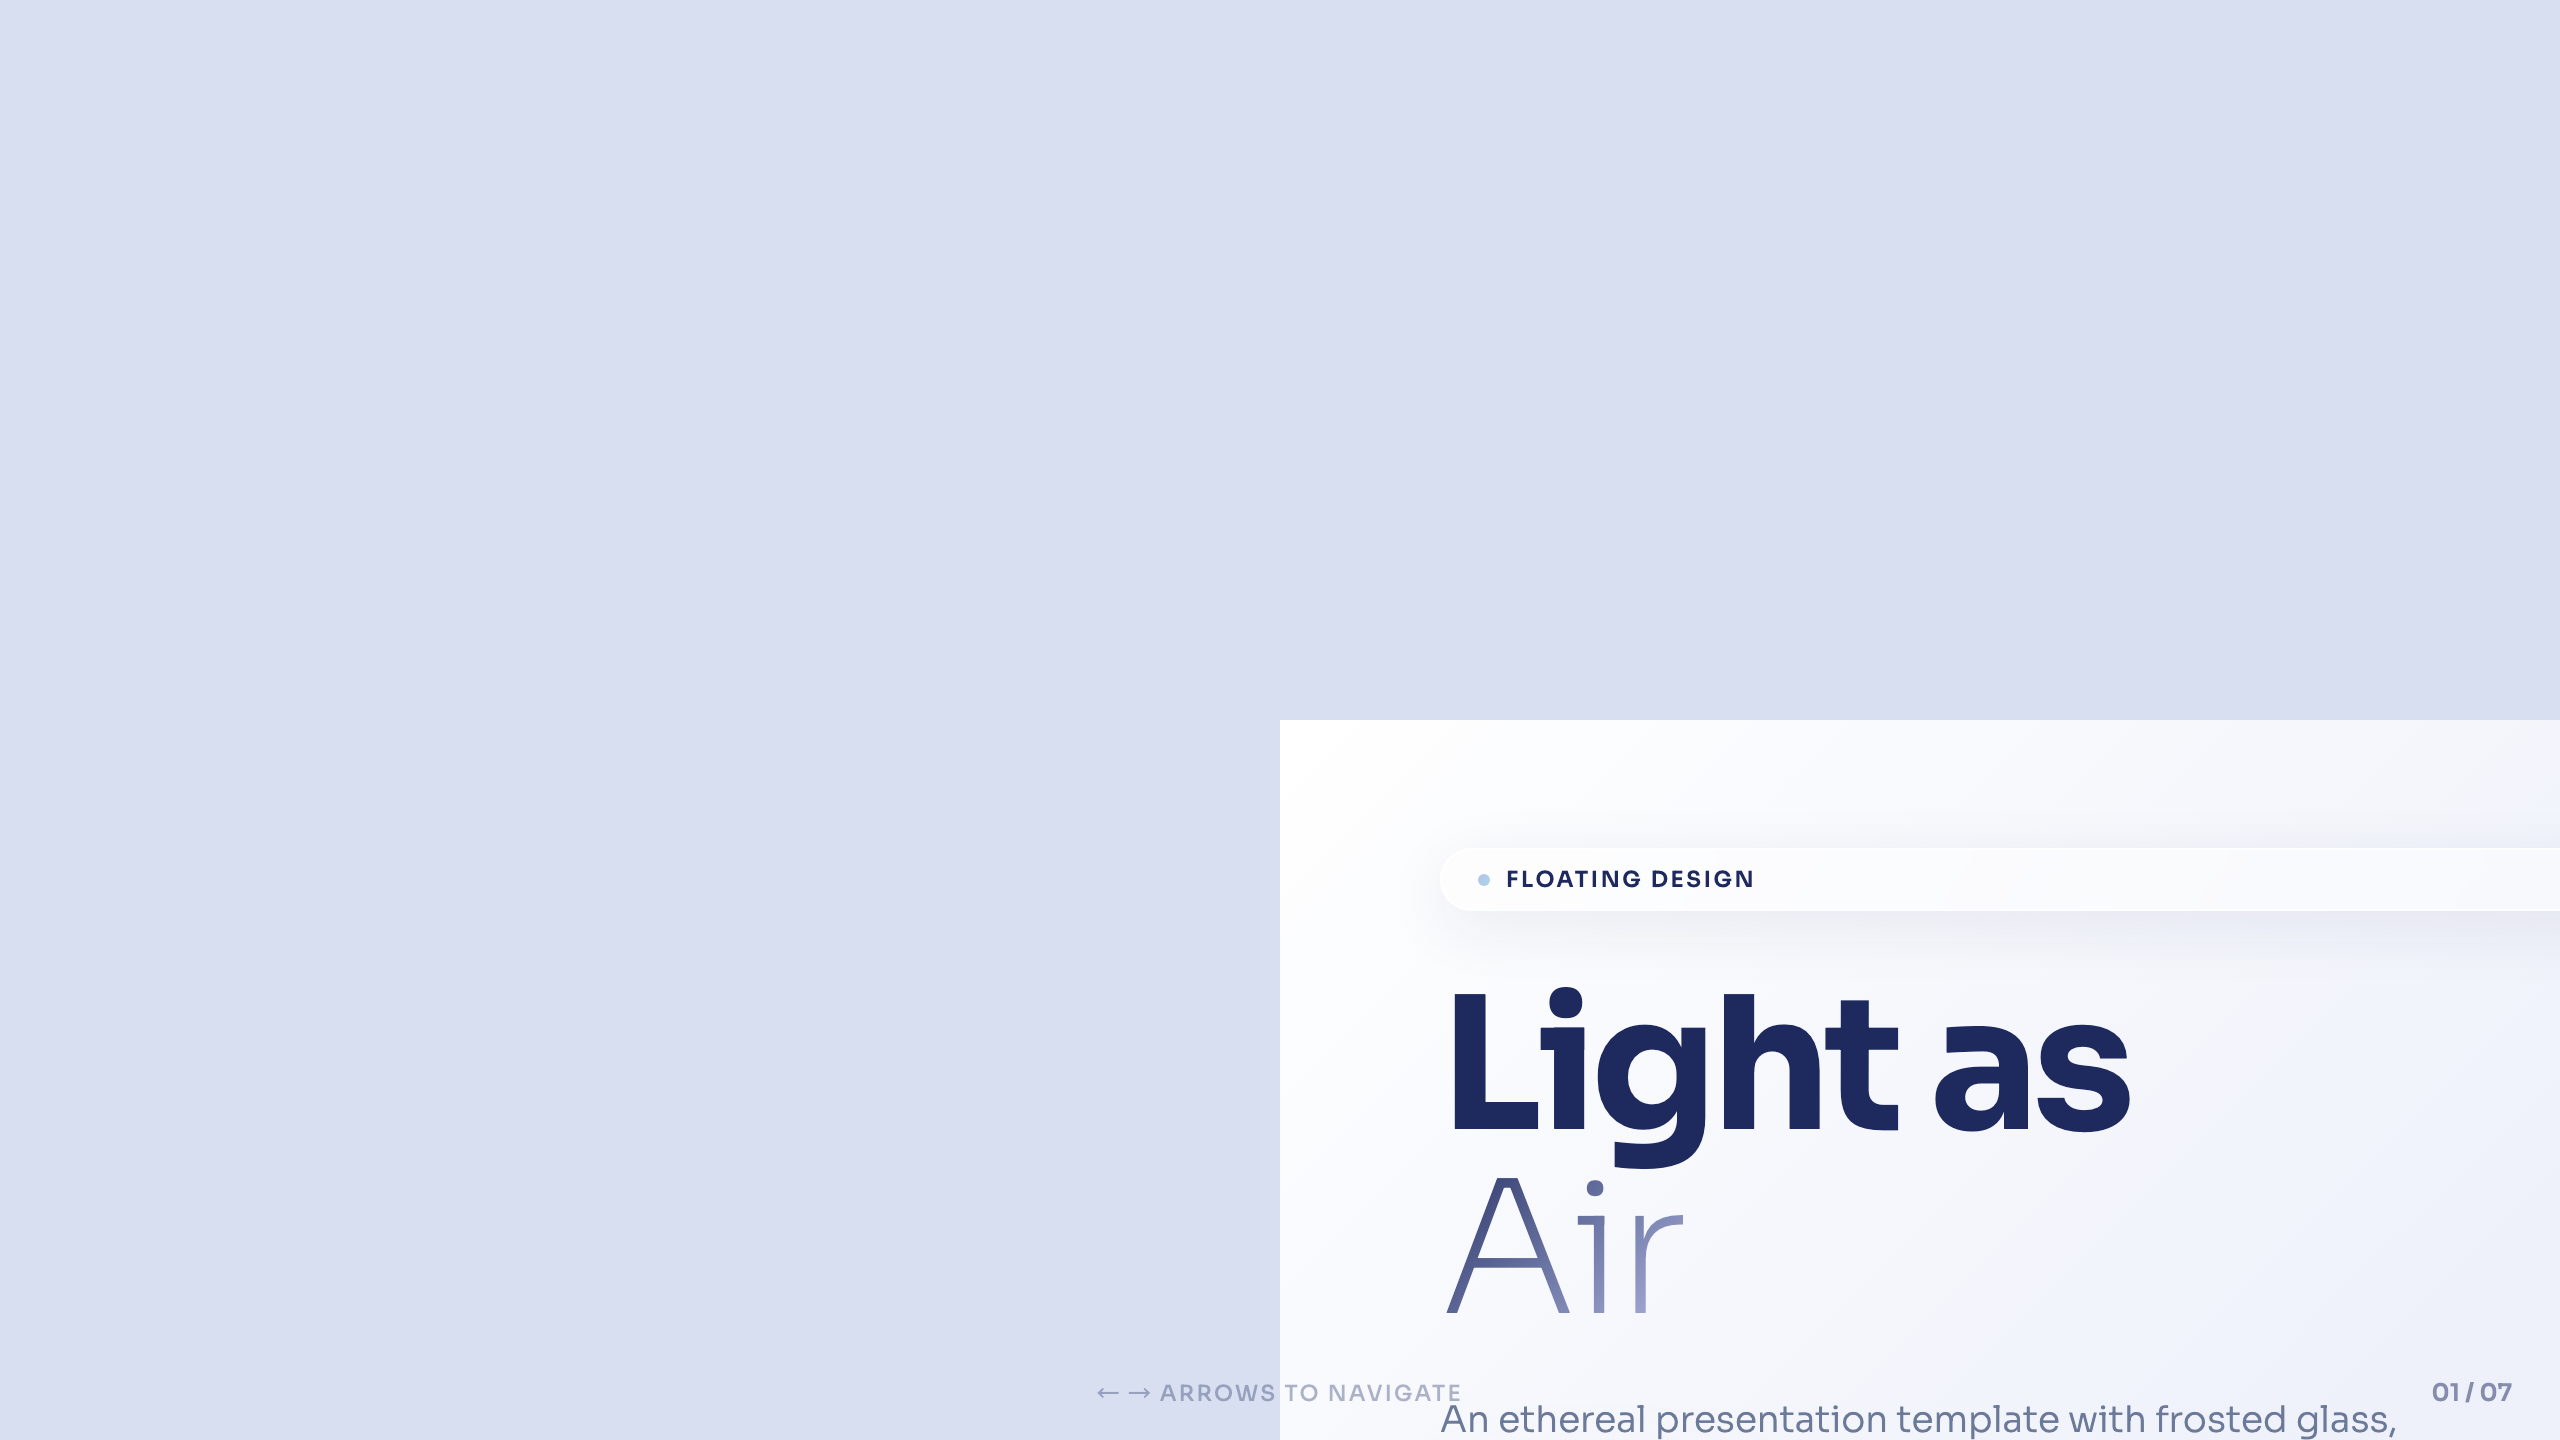
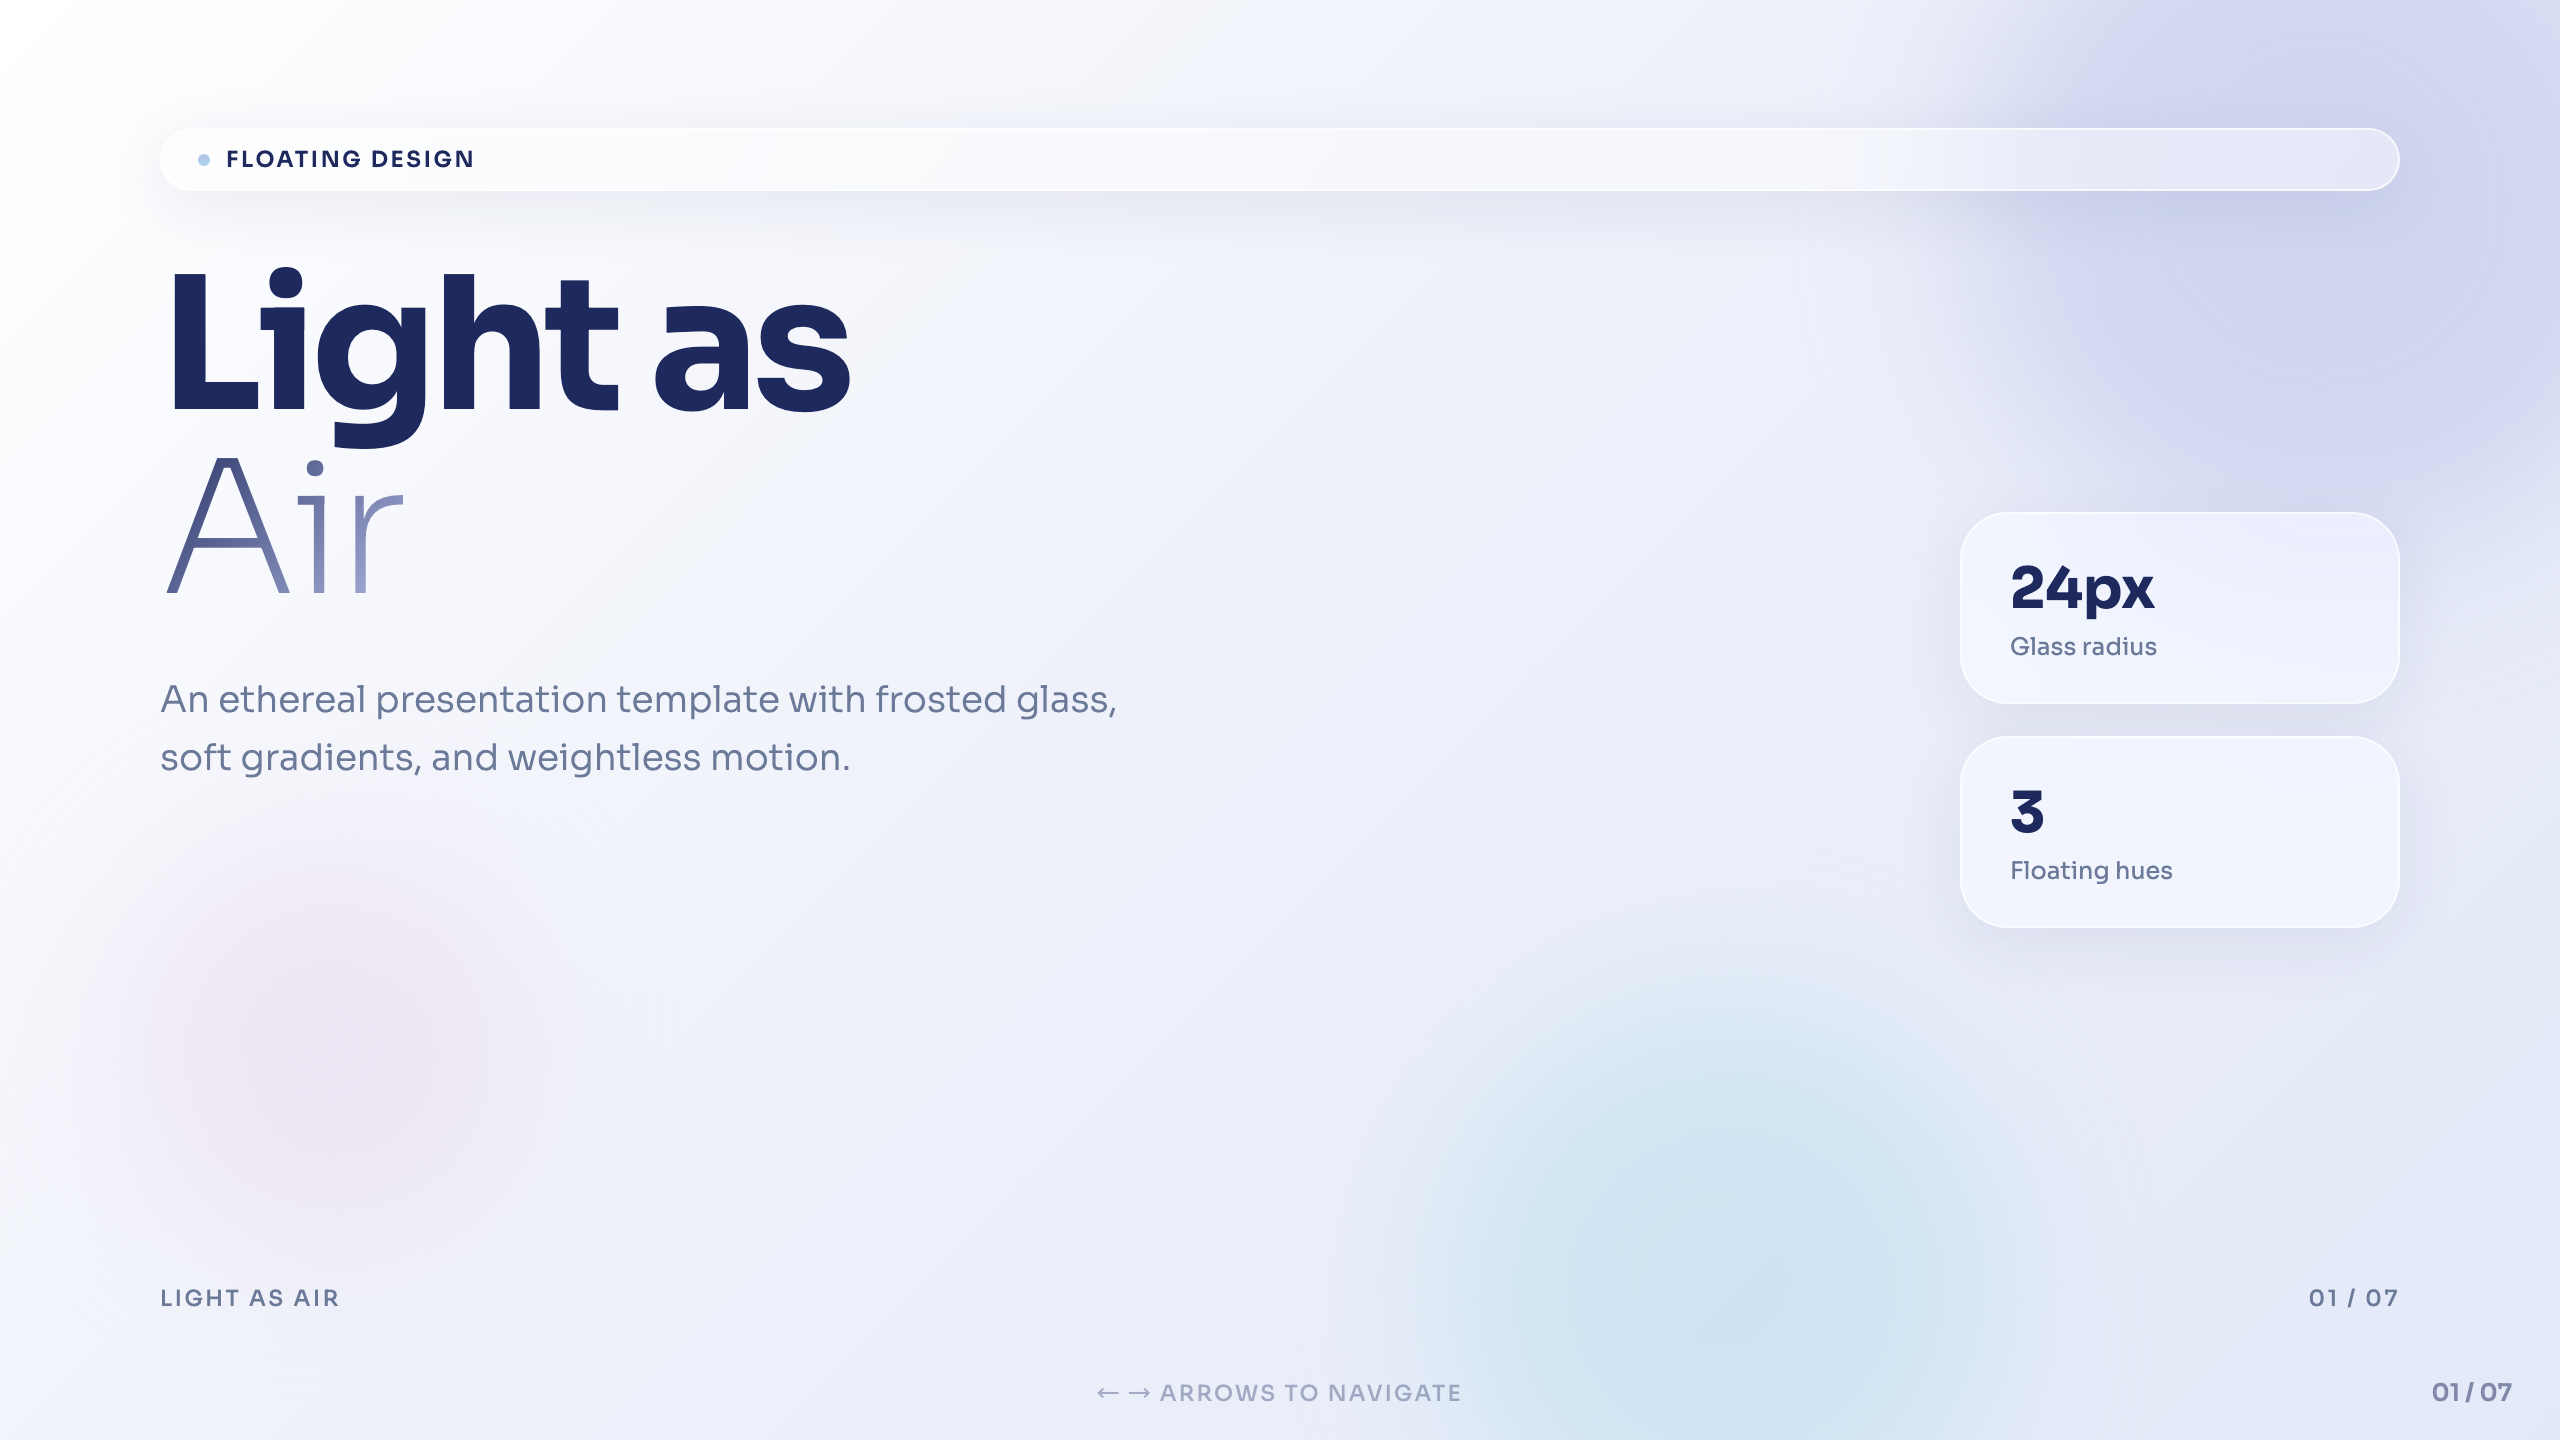
fix: add missing translate(-50%,-50%) to base .slide rule in 3 templates
Templates 03-soft-space, 04-light-as-air, 05-breathe had top:50%/left:50%
but were missing transform:translate(-50%,-50%) in the base .slide rule.
The translate only existed inside @media queries, which could fail to apply
in headless Chrome at exactly 16:9 viewport, causing slides to render in
the bottom-right quadrant (half-cut appearance).

Root cause: the earlier batch fix script checked if translate existed
anywhere in the HTML (it did, inside @media blocks) and skipped adding
it to the base rule for multi-line .slide declarations.

All 20 templates now verified to have top:50%, left:50%, and
translate(-50%,-50%) in the base .slide rule.

diff --git a/templates/03-soft-space/example.html b/templates/03-soft-space/example.html
@@ -42,6 +42,7 @@
     display: none;
     flex-direction: column;
     overflow: hidden;
+    transform: translate(-50%, -50%);
     transform-origin: center center;
   }
 

diff --git a/templates/04-light-as-air/example.html b/templates/04-light-as-air/example.html
@@ -44,6 +44,7 @@
     display: none;
     flex-direction: column;
     overflow: hidden;
+    transform: translate(-50%, -50%);
     transform-origin: center center;
   }
 

diff --git a/templates/05-breathe/example.html b/templates/05-breathe/example.html
@@ -39,6 +39,7 @@
     display: none;
     flex-direction: column;
     overflow: hidden;
+    transform: translate(-50%, -50%);
     transform-origin: center center;
   }
 
